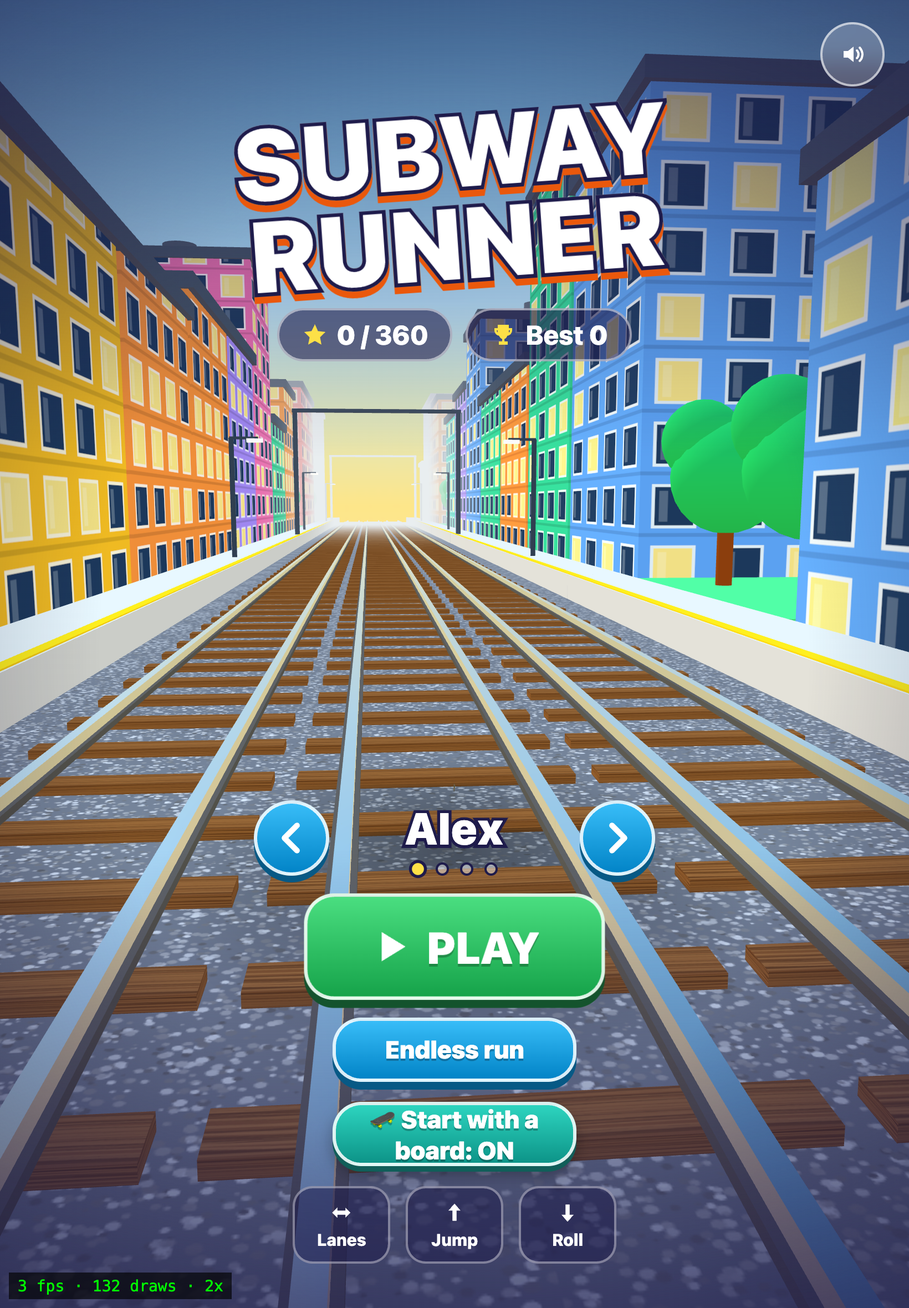
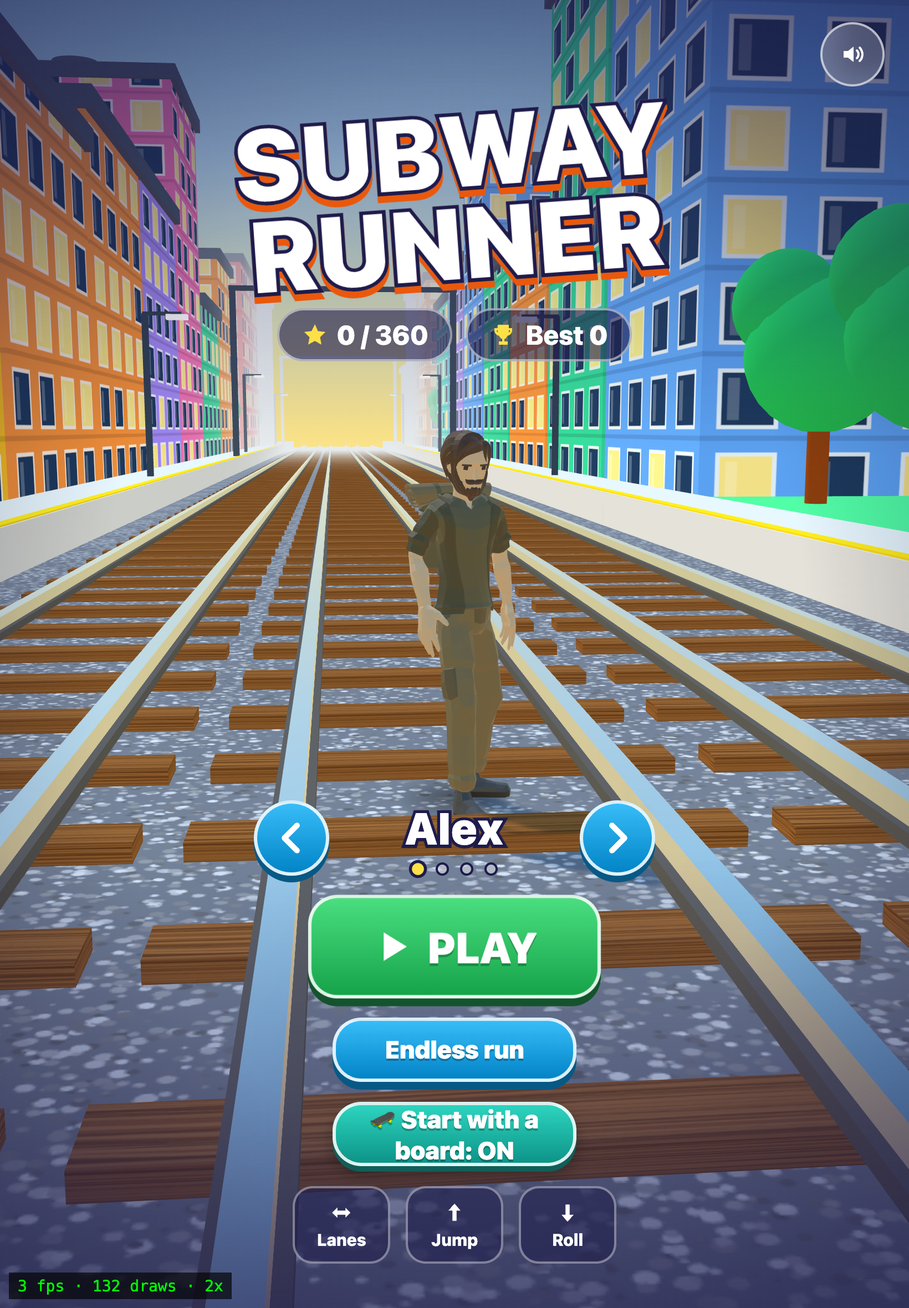
feat(web): CC0 glTF characters (Alex, Biscuit, Whiskers, Rusty), character select, new hoverboard/jetpack/chaser visuals, screenshots

diff --git a/web/src/gfx/powerups.ts b/web/src/gfx/powerups.ts
@@ -154,28 +154,28 @@ export class BoardVisual {
   private t = 0;
 
   constructor() {
-    const deckGeo = new THREE.ExtrudeGeometry(stadium(1.55, 0.58), { depth: 0.07, bevelEnabled: true, bevelSize: 0.035, bevelThickness: 0.03, bevelSegments: 3, curveSegments: 12 });
+    const deckGeo = new THREE.ExtrudeGeometry(stadium(1.7, 0.5), { depth: 0.07, bevelEnabled: true, bevelSize: 0.035, bevelThickness: 0.03, bevelSegments: 3, curveSegments: 12 });
     deckGeo.rotateX(Math.PI / 2); // shape plane -> XZ, extrusion goes down
     deckGeo.translate(0, 0.14, 0);
     const deck = new THREE.Mesh(deckGeo, new THREE.MeshStandardMaterial({ color: 0x22d3ee, metalness: 0.35, roughness: 0.28, emissive: 0x0e7490, emissiveIntensity: 0.5 }));
     deck.castShadow = true;
     // dark grip pad where the feet are
-    const pad = new THREE.Mesh(new THREE.BoxGeometry(0.4, 0.015, 0.8), new THREE.MeshStandardMaterial({ color: 0x0f172a, roughness: 0.9 }));
+    const pad = new THREE.Mesh(new THREE.BoxGeometry(0.26, 0.012, 0.5), new THREE.MeshStandardMaterial({ color: 0x1e3a8a, roughness: 0.9 }));
     pad.position.set(0, 0.176, 0.05);
     // glowing side rails and nose light
     const railMat = additive(0xa5f3fc);
-    for (const x of [-0.27, 0.27]) {
+    for (const x of [-0.25, 0.25]) {
       const rail = new THREE.Mesh(new THREE.CapsuleGeometry(0.018, 0.9, 3, 6), railMat);
       rail.rotation.x = Math.PI / 2;
-      rail.position.set(x, 0.168, 0.1);
+      rail.position.set(x * 0.85, 0.168, 0.1);
       this.body.add(rail);
     }
     const nose = new THREE.Mesh(new THREE.SphereGeometry(0.05, 10, 8), additive(0xffffff));
-    nose.position.set(0, 0.15, -0.74);
+    nose.position.set(0, 0.15, -0.82);
     // twin thruster rings at the tail
     for (const x of [-0.14, 0.14]) {
       const ring = new THREE.Mesh(new THREE.TorusGeometry(0.075, 0.025, 8, 16), additive(0xf0abfc));
-      ring.position.set(x, 0.1, 0.8);
+      ring.position.set(x, 0.1, 0.88);
       this.rings.push(ring);
       this.body.add(ring);
     }

diff --git a/web/src/gfx/character.ts b/web/src/gfx/character.ts
@@ -57,6 +57,7 @@ export class RunnerFigure {
   private action: THREE.AnimationAction | null = null;
   private stumbleT = 0;
   private lastStumbles = 0;
+  private lastSlide = 0;
   private pop = 1; // 0 → 1 scale-in after switching character
   private pitch = 0;
   private squash = 1;
@@ -113,6 +114,8 @@ export class RunnerFigure {
       // scale to the target height and stand the feet on y = 0 (measured on the bind pose)
       const wrap = new THREE.Group();
       wrap.add(model);
+      wrap.updateMatrixWorld(true);
+      model.traverse((o) => { if ((o as THREE.SkinnedMesh).isSkinnedMesh) (o as THREE.SkinnedMesh).skeleton.update(); });
       const box = new THREE.Box3().setFromObject(model, true);
       const k = def.height / Math.max(0.01, box.max.y - box.min.y);
       wrap.scale.setScalar(k);
@@ -169,6 +172,8 @@ export class RunnerFigure {
     const board = (s.board ?? 0) > 0 && key !== 'crash' && (s.fly ?? 0) <= 0 && ((s as { descend?: number }).descend ?? 0) <= 0;
     this.rig.position.set(s.x, s.y + (board ? BOARD_LIFT : 0), -s.z);
     this.rig.rotation.z = Math.max(-0.35, Math.min(0.35, -(laneX(s.lane) - s.x) * 0.18));
+    if (key === 'slide' && s.slideTicks > this.lastSlide && this.key === 'slide') this.key = null; // a new roll restarts the clip
+    this.lastSlide = s.slideTicks;
     this.play(e, key, s, speed);
     e.mixer.update(dt);
 
@@ -197,7 +202,7 @@ export class RunnerFigure {
     const e = this.current;
     if (!e) { this.pose(s, dt); return; }
     this.rig.position.set(0, 0, 0);
-    this.rig.rotation.set(0, Math.sin(time * 0.8) * 0.45, 0);
+    this.rig.rotation.set(0, Math.sin(time * 0.8) * 0.45, 0); // the model faces -z, i.e. the menu camera
     this.pivot.position.y = 0;
     this.key = null;
     const idle = e.actions.get(e.def.clips.idle ?? '');

diff --git a/web/src/game.ts b/web/src/game.ts
@@ -74,7 +74,7 @@ function levelPlay(n: number, opts: StartOptions): Play {
 function forcePose(s: RunnerState, pose: string): RunnerState {
   const v = { ...s };
   switch (pose) {
-    case 'slide': v.slideTicks = 30; break;
+    case 'slide': v.slideTicks = 72 - Math.floor((performance.now() / 8.33) % 72); break; // repeating roll
     case 'jump': v.y = 0.9; v.vy = 2; break;
     case 'crash': v.crashed = true; break;
     case 'fly': v.fly = 500; v.y = 5.5; break;
@@ -141,7 +141,6 @@ export class Game {
     this.figure.pivot.add(this.power.jetpack.group);
     this.figure.onReady = () => { const d = characterById(this.figure.characterId); this.power.jetpack.place(d.height, d.slide === 'clip'); };
     this.figure.preloadAll();
-    (window as unknown as Record<string, unknown>).__fig = this.figure; // TEMP
     this.coins = new CoinRenderer(this.mats);
     this.scene.add(this.power.group, this.figure.root, this.coins.group, this.stars.group, this.dust.points, this.glow.points);
     this.resize();
@@ -240,10 +239,10 @@ export class Game {
     if (this.mode === 'menu') {
       this.figure.menuPose(this.time, dt);
       const a = 0.35 * Math.sin(this.time * 0.3);
-      this.camera.position.set(5.2 * Math.sin(a), 2.3, -6.4 * Math.cos(a));
-      this.camera.fov = 66;
+      this.camera.position.set(4.4 * Math.sin(a), 1.7, -6.0 * Math.cos(a));
+      this.camera.fov = 52;
       this.camera.updateProjectionMatrix();
-      this.camera.lookAt(0, 1.35, 0);
+      this.camera.lookAt(0, 0.7, 0);
     } else if (this.play) {
       const play = this.play;
       if (!play.over) {

diff --git a/web/src/gfx/characters.ts b/web/src/gfx/characters.ts
@@ -23,22 +23,22 @@ export interface CharacterDef {
 }
 
 const animal = (id: string, name: string, height: number, extra: Partial<CharacterDef> = {}): CharacterDef => ({
-  id, name, model: `models/${id}.glb`, height, slide: 'tuck', yaw: 0, runSpeed: 1.15,
+  id, name, model: `models/${id}.glb`, height, slide: 'tuck', yaw: Math.PI, runSpeed: 1.15,
   clips: { run: 'Gallop', jump: 'Gallop_Jump', crash: 'Death', idle: 'Idle', stumble: 'Idle_HitReact_Left', fly: 'Gallop_Jump', board: 'Idle' },
   ...extra,
 });
 
 export const CHARACTERS: readonly CharacterDef[] = [
   {
-    id: 'adventurer', name: 'Alex', model: 'models/adventurer.glb', height: 1.7, slide: 'clip', yaw: 0, runSpeed: 1.0,
+    id: 'adventurer', name: 'Alex', model: 'models/adventurer.glb', height: 1.7, slide: 'clip', yaw: Math.PI, runSpeed: 1.0,
     clips: { run: 'Run', jump: 'Run', slide: 'Roll', crash: 'Death', idle: 'Idle', stumble: 'HitRecieve', fly: 'Run', board: 'Idle' },
   },
-  animal('shiba', 'Biscuit', 1.15),
-  animal('cat', 'Whiskers', 0.95, {
+  animal('shiba', 'Biscuit', 1.35),
+  animal('cat', 'Whiskers', 1.15, {
     runSpeed: 1.0,
     clips: { run: 'Run', jump: 'Jump_Loop', crash: 'Death', idle: 'Idle', fly: 'Jump_Loop', board: 'Idle' },
   }),
-  animal('fox', 'Rusty', 1.2),
+  animal('fox', 'Rusty', 1.4),
 ];
 
 export const DEFAULT_CHARACTER = CHARACTERS[0].id;
